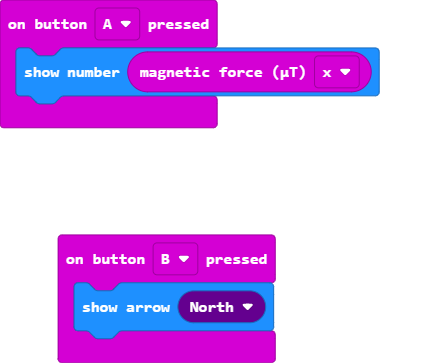
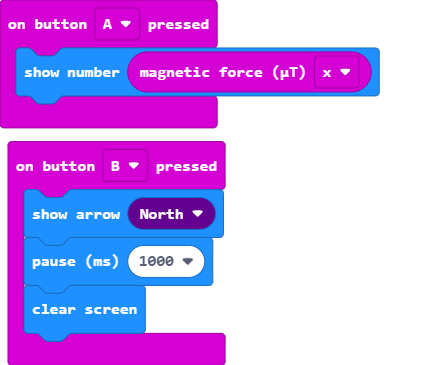
add pause

diff --git a/main.ts b/main.ts
@@ -3,4 +3,6 @@ input.onButtonPressed(Button.A, function () {
 })
 input.onButtonPressed(Button.B, function () {
     basic.showArrow(ArrowNames.North)
+    basic.pause(1000)
+    basic.clearScreen()
 })
